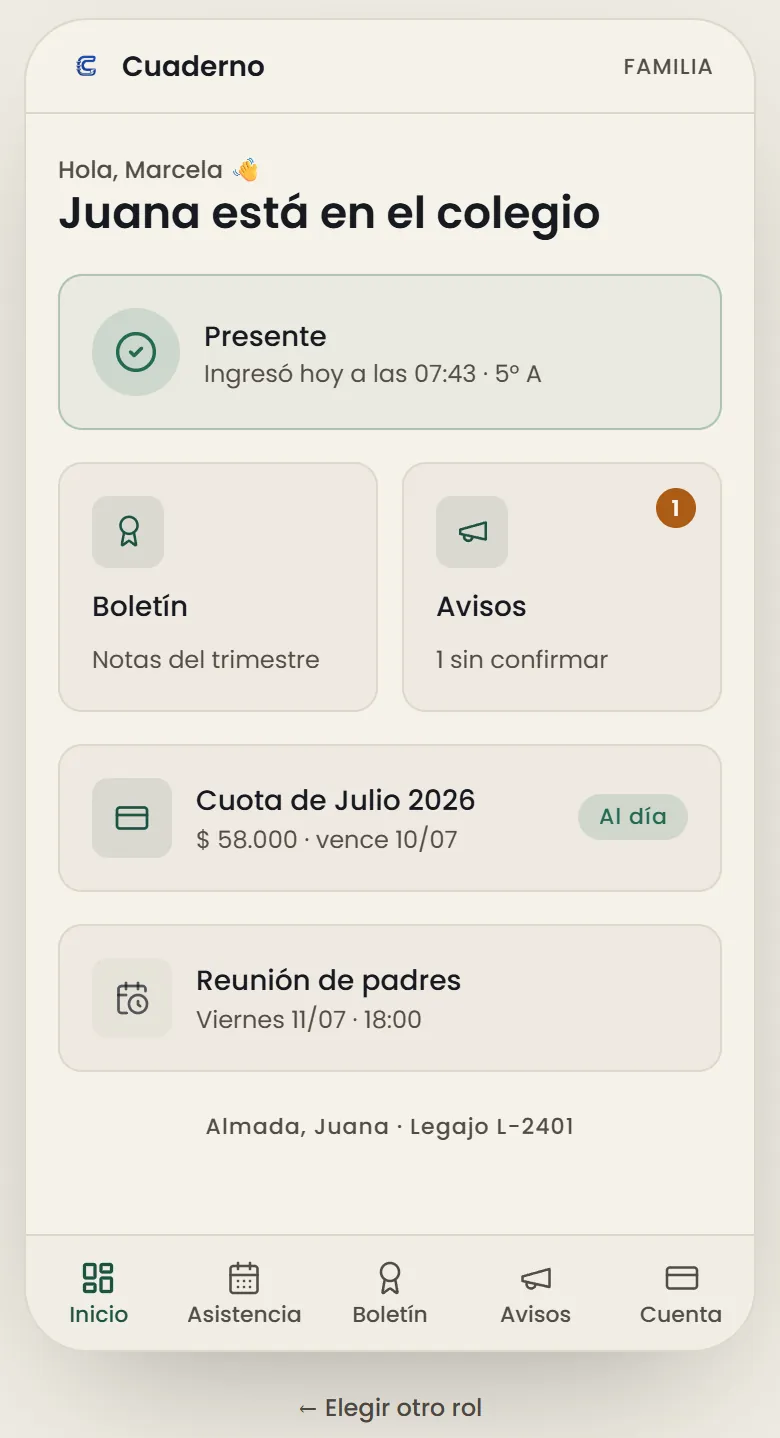
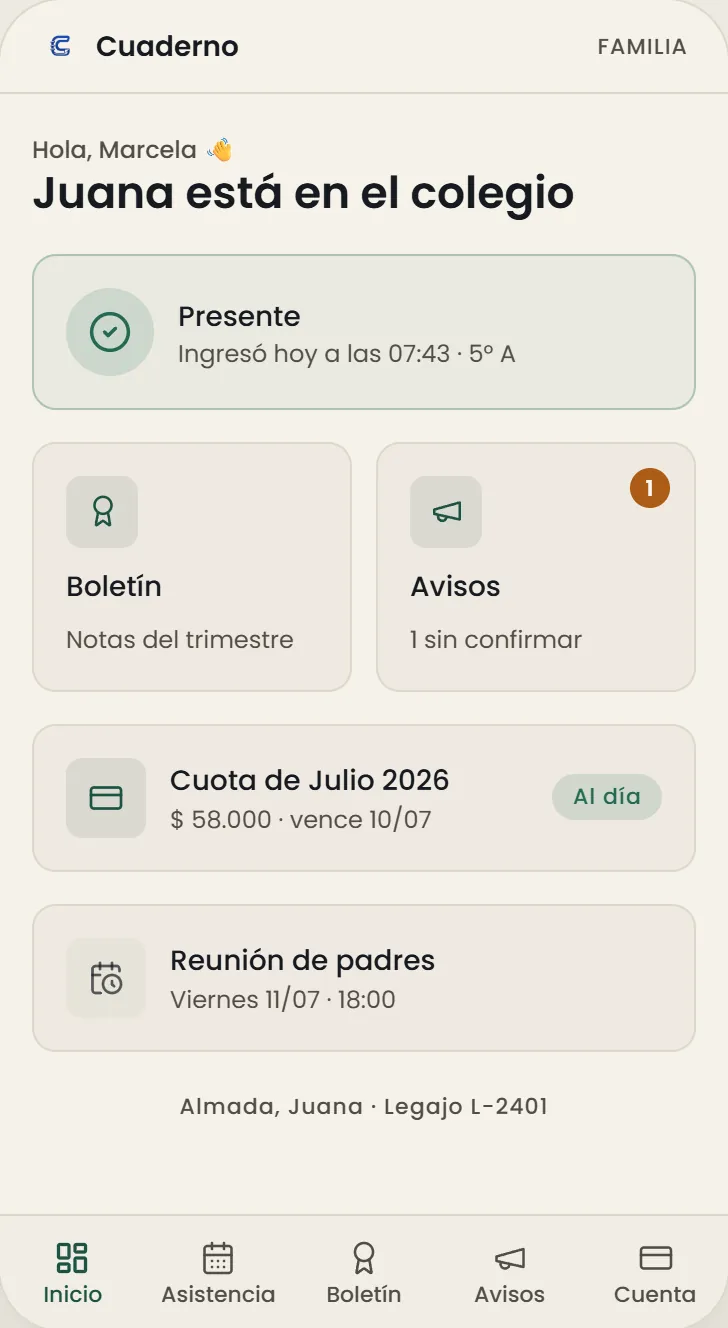
fix: celulares del portafolio alineados con la captura de al lado y en alta resolucion
El marco del celular toma la altura de la captura principal, la leyenda va
centrada y en pantallas chicas se centra. AguilaSoft pasa a dos celulares
claros sacados de la demo; ComexTracker queda con la captura principal sola.
Kabodhi, Nuve y Cuaderno con capturas nuevas a mayor resolucion.

diff --git a/public/portafolio/index.html b/public/portafolio/index.html
@@ -117,12 +117,14 @@ main{padding:64px 0 40px}
 /* galería */
 .gallery{display:grid;grid-template-columns:minmax(0,1.55fr) minmax(0,1fr);gap:14px;padding:26px 32px 0;align-items:start}
 .gallery.single{grid-template-columns:minmax(0,1fr)}
-.gallery.phone-side{grid-template-columns:minmax(0,1fr) minmax(0,230px)}
+.gallery.phone-side{grid-template-columns:minmax(0,1fr) minmax(0,250px);align-items:stretch}
+.gallery.phone-side.wide{grid-template-columns:minmax(0,1fr) minmax(0,290px)}
+.gallery.phone-side.two{grid-template-columns:minmax(0,1fr) minmax(0,210px) minmax(0,210px)}
+.gallery.phone-side > .shot:has(.phone){display:flex;flex-direction:column}
+.gallery.phone-side .frame.phone{flex:1;aspect-ratio:auto;min-height:340px}
 .extras{display:grid;grid-template-columns:repeat(2,minmax(0,1fr));gap:14px;padding:14px 32px 0}
 .extras:has(> .shot:only-child){grid-template-columns:minmax(0,1fr)}
 .gallery .side{display:grid;gap:14px;align-content:start}
-.gallery .side.phones{grid-template-columns:repeat(2,minmax(0,1fr));align-items:start}
-.gallery .side.phones.three{grid-template-columns:repeat(3,minmax(0,1fr))}
 .shot{margin:0;display:grid;gap:8px;min-width:0;align-content:start}
 .shot figcaption{font-size:13.5px;color:var(--ink-3);line-height:1.4}
 .frame{position:relative;border-radius:12px;overflow:hidden;border:1px solid var(--line-2);background:var(--tint);cursor:zoom-in;padding:0;display:block;width:100%;text-align:left;font:inherit}
@@ -131,9 +133,10 @@ main{padding:64px 0 40px}
 .frame img{width:100%;height:auto}
 .frame:hover{border-color:var(--accent-line)}
 .frame:focus-visible{outline:3px solid var(--accent-line);outline-offset:2px}
-.frame.phone{border-radius:26px;border:6px solid #141b18;background:#141b18}
+.frame.phone{position:relative;aspect-ratio:9/19.5;border-radius:28px;border:7px solid #141b18;background:#141b18;box-shadow:0 0 0 1px #2a332f,0 14px 30px rgba(13,21,18,.16)}
 .frame.phone::before,.frame.phone::after{display:none}
-.frame.phone img{aspect-ratio:9/19.5;object-fit:cover;object-position:top;border-radius:19px}
+.frame.phone img{position:absolute;inset:0;width:100%;height:100%;object-fit:cover;object-position:top;border-radius:21px}
+.shot:has(.phone) figcaption{text-align:center}
 .frame.mock{border:0;background:none}
 .frame.mock::before,.frame.mock::after{display:none}
 .frame.mock img{aspect-ratio:auto}
@@ -215,8 +218,14 @@ dialog.viewer::backdrop{background:rgba(5,9,7,.88)}
 @media (max-width:980px){
   .hero-grid{grid-template-columns:minmax(0,1fr)}
   .index-grid{grid-template-columns:repeat(2,minmax(0,1fr))}
-  .gallery,.gallery.phone-side{grid-template-columns:minmax(0,1fr)}
-  .gallery.phone-side .shot:has(.phone){max-width:260px;justify-self:center}
+  .gallery,.gallery.phone-side,.gallery.phone-side.wide{grid-template-columns:minmax(0,1fr)}
+  .gallery.phone-side > .shot:has(.phone){width:min(250px,70%);justify-self:center}
+  .gallery.phone-side .frame.phone{flex:none;aspect-ratio:9/19.5;min-height:0}
+  .gallery.phone-side.two{grid-template-columns:repeat(2,minmax(0,1fr))}
+  .gallery.phone-side.wide > .shot:has(.phone){width:min(280px,76%)}
+  .gallery.phone-side.wide .frame.phone{aspect-ratio:728/1328}
+  .gallery.phone-side.two > .shot:not(:has(.phone)){grid-column:1/-1}
+  .gallery.phone-side.two > .shot:has(.phone){width:100%;max-width:230px}
   .gallery .side:not(.phones){grid-template-columns:repeat(2,minmax(0,1fr))}
   .case-body{grid-template-columns:minmax(0,1fr)}
   .steps{grid-template-columns:repeat(2,minmax(0,1fr))}
@@ -234,9 +243,8 @@ dialog.viewer::backdrop{background:rgba(5,9,7,.88)}
   .gallery{padding:20px 18px 0}
   .extras{grid-template-columns:minmax(0,1fr);padding:14px 18px 0}
   .gallery .side:not(.phones){grid-template-columns:minmax(0,1fr)}
-  .gallery .side.phones.three{grid-template-columns:repeat(3,minmax(0,1fr));gap:8px}
-  .frame.phone{border-width:4px;border-radius:18px}
-  .frame.phone img{border-radius:14px}
+  .frame.phone{border-width:5px;border-radius:22px}
+  .frame.phone img{border-radius:17px}
   .case-body{padding:20px 18px 22px}
   .box{padding:18px}
   .case-foot{padding:14px 18px}
@@ -496,13 +504,10 @@ dialog.viewer::backdrop{background:rgba(5,9,7,.88)}
           <p class="lede">El portal donde los clientes de cada distribuidora entran solos, a cualquier hora, a ver su saldo, sus precios, el stock y sus pedidos, leídos en el momento del sistema de gestión Águila.</p>
         </div>
       </div>
-      <div class="gallery">
+      <div class="gallery phone-side two">
         <figure class="shot"><button class="frame mock" type="button"><img src="img/aguila-mockup.webp" alt="Portal de clientes de AguilaSoft en computadora y celular" loading="lazy" width="1536" height="1024"></button><figcaption>El portal en la computadora y en el celular.</figcaption></figure>
-        <div class="side phones three">
-          <figure class="shot"><button class="frame phone" type="button"><img src="img/aguila-catalogo.webp" alt="Catálogo con el precio del cliente" loading="lazy" width="780" height="1691"></button><figcaption>Catálogo con su precio.</figcaption></figure>
-          <figure class="shot"><button class="frame phone" type="button"><img src="img/aguila-cuenta.webp" alt="Cuenta corriente" loading="lazy" width="780" height="1691"></button><figcaption>Cuenta corriente.</figcaption></figure>
-          <figure class="shot"><button class="frame phone" type="button"><img src="img/aguila-pedidos.webp" alt="Pedidos y su estado" loading="lazy" width="780" height="1691"></button><figcaption>Pedidos y su estado.</figcaption></figure>
-        </div>
+        <figure class="shot"><button class="frame phone" type="button"><img src="img/aguila-cuenta.webp" alt="Cuenta corriente del cliente" loading="lazy" width="780" height="1688"></button><figcaption>Su saldo y sus movimientos.</figcaption></figure>
+        <figure class="shot"><button class="frame phone" type="button"><img src="img/aguila-pedidos.webp" alt="Pedidos y su estado" loading="lazy" width="780" height="1688"></button><figcaption>Sus pedidos, y repetir el último.</figcaption></figure>
       </div>
       <div class="case-body">
         <div class="box problem">
@@ -540,9 +545,8 @@ dialog.viewer::backdrop{background:rgba(5,9,7,.88)}
         </div>
         <a class="case-link" href="https://comextracker.com" target="_blank" rel="noopener">comextracker.com <svg viewBox="0 0 24 24" fill="none" stroke="currentColor" stroke-width="2" stroke-linecap="round" stroke-linejoin="round" aria-hidden="true"><path d="M7 17L17 7M9 7h8v8"/></svg></a>
       </div>
-      <div class="gallery phone-side">
+      <div class="gallery single">
         <figure class="shot"><button class="frame" type="button"><img src="img/comex-demo.webp" alt="Resumen de operaciones de ComexTracker" loading="lazy" width="1536" height="1024"></button><figcaption>El resumen del estudio: qué avanza y qué necesita atención hoy.</figcaption></figure>
-          <figure class="shot"><button class="frame phone" type="button"><img src="img/comex-mobile.webp" alt="ComexTracker en el celular" loading="lazy" width="390" height="844"></button><figcaption>En el celular, como app.</figcaption></figure>
       </div>
       <div class="case-body">
         <div class="box problem">
@@ -579,9 +583,9 @@ dialog.viewer::backdrop{background:rgba(5,9,7,.88)}
         </div>
         <a class="case-link" href="https://cuaderno.app/demo" target="_blank" rel="noopener">Probar la demo <svg viewBox="0 0 24 24" fill="none" stroke="currentColor" stroke-width="2" stroke-linecap="round" stroke-linejoin="round" aria-hidden="true"><path d="M7 17L17 7M9 7h8v8"/></svg></a>
       </div>
-      <div class="gallery phone-side">
+      <div class="gallery phone-side wide">
         <figure class="shot"><button class="frame" type="button"><img src="img/cuaderno-directivo.webp" alt="Panel ejecutivo del directivo" loading="lazy" width="1440" height="900"></button><figcaption>El panel de dirección: el colegio entero de un vistazo.</figcaption></figure>
-          <figure class="shot"><button class="frame phone" type="button"><img src="img/cuaderno-familia.webp" alt="App de las familias" loading="lazy" width="780" height="1438"></button><figcaption>La app de las familias.</figcaption></figure>
+          <figure class="shot"><button class="frame phone" type="button"><img src="img/cuaderno-familia.webp" alt="App de las familias" loading="lazy" width="728" height="1328"></button><figcaption>La app de las familias.</figcaption></figure>
       </div>
       <div class="extras">
         <figure class="shot"><button class="frame" type="button"><img src="img/cuaderno-asistencia.webp" alt="Toma de asistencia con QR" loading="lazy" width="1440" height="900"></button><figcaption>Asistencia con QR.</figcaption></figure>
@@ -714,7 +718,7 @@ dialog.viewer::backdrop{background:rgba(5,9,7,.88)}
       </div>
       <div class="gallery phone-side">
         <figure class="shot"><button class="frame" type="button"><img src="img/kabodhi-home.webp" alt="Productos destacados de Kabodhi" loading="lazy" width="1440" height="900"></button><figcaption>Cada producto con su beneficio y su ilustración.</figcaption></figure>
-          <figure class="shot"><button class="frame phone" type="button"><img src="img/kabodhi-mobile.webp" alt="Kabodhi en el celular" loading="lazy" width="390" height="844"></button><figcaption>En el celular.</figcaption></figure>
+          <figure class="shot"><button class="frame phone" type="button"><img src="img/kabodhi-mobile.webp" alt="Kabodhi en el celular" loading="lazy" width="780" height="1688"></button><figcaption>En el celular.</figcaption></figure>
       </div>
       <div class="extras">
         <figure class="shot"><button class="frame" type="button"><img src="img/kabodhi-productos.webp" alt="Catálogo de Kabodhi" loading="lazy" width="1440" height="760"></button><figcaption>Catálogo por categoría, con buscador.</figcaption></figure>
@@ -754,7 +758,7 @@ dialog.viewer::backdrop{background:rgba(5,9,7,.88)}
       </div>
       <div class="gallery phone-side">
         <figure class="shot"><button class="frame" type="button"><img src="img/nuve-home.webp" alt="Inicio de Nüve" loading="lazy" width="1440" height="900"></button><figcaption>El inicio, con los más vendidos.</figcaption></figure>
-          <figure class="shot"><button class="frame phone" type="button"><img src="img/nuve-mobile.webp" alt="Nüve en el celular" loading="lazy" width="390" height="844"></button><figcaption>En el celular.</figcaption></figure>
+          <figure class="shot"><button class="frame phone" type="button"><img src="img/nuve-mobile.webp" alt="Nüve en el celular" loading="lazy" width="780" height="1688"></button><figcaption>En el celular.</figcaption></figure>
       </div>
       <div class="extras">
         <figure class="shot"><button class="frame" type="button"><img src="img/nuve-productos.webp" alt="Catálogo de fragancias" loading="lazy" width="1440" height="900"></button><figcaption>Catálogo con filtros y buscador.</figcaption></figure>
